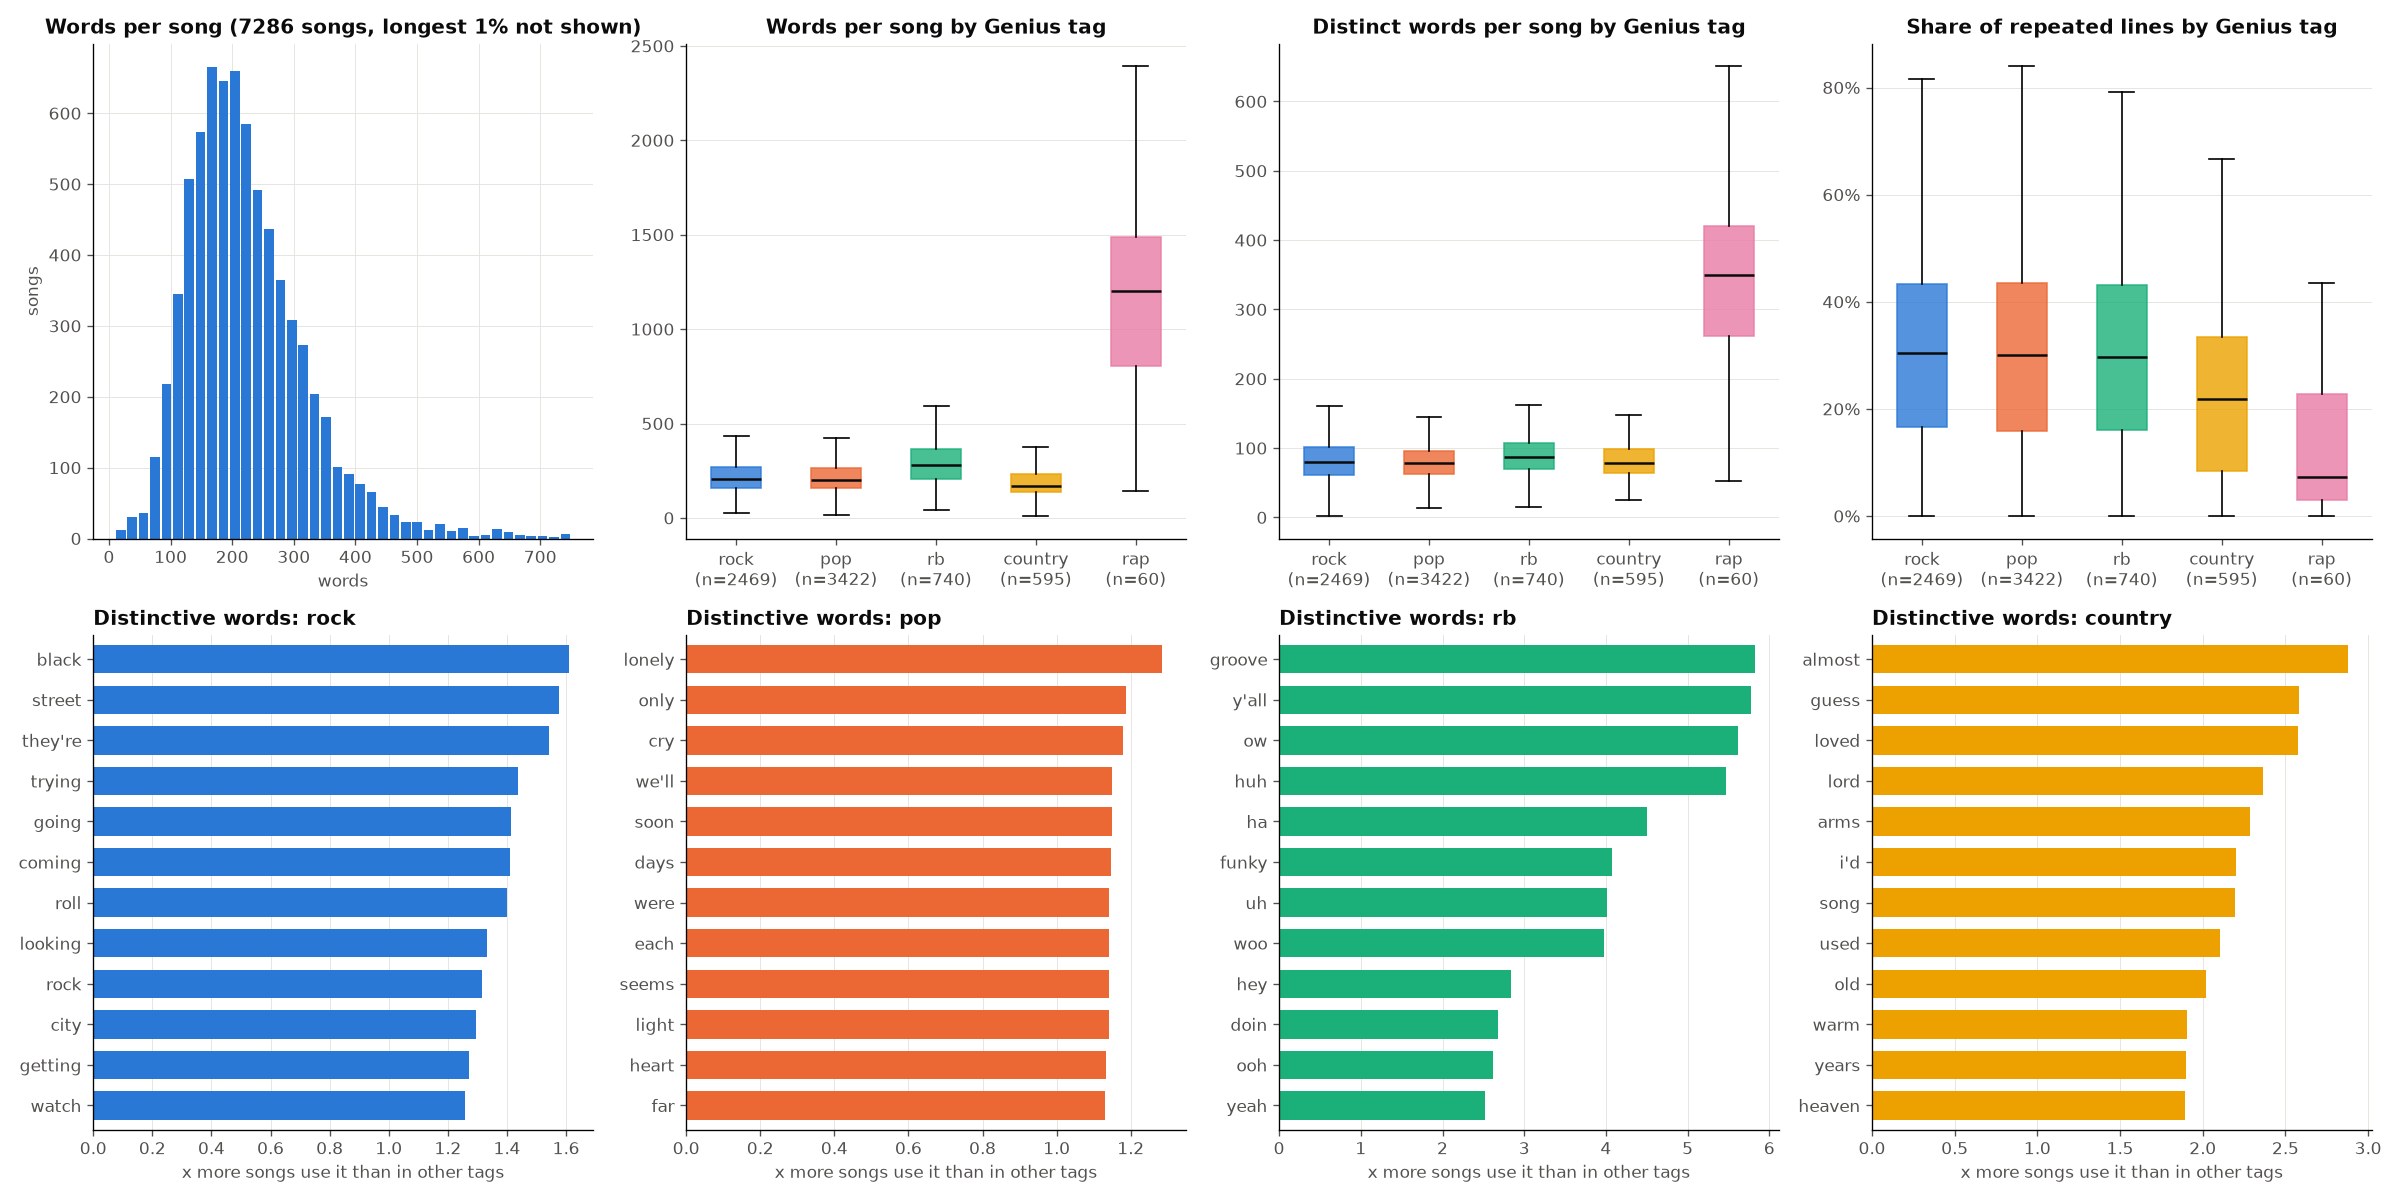
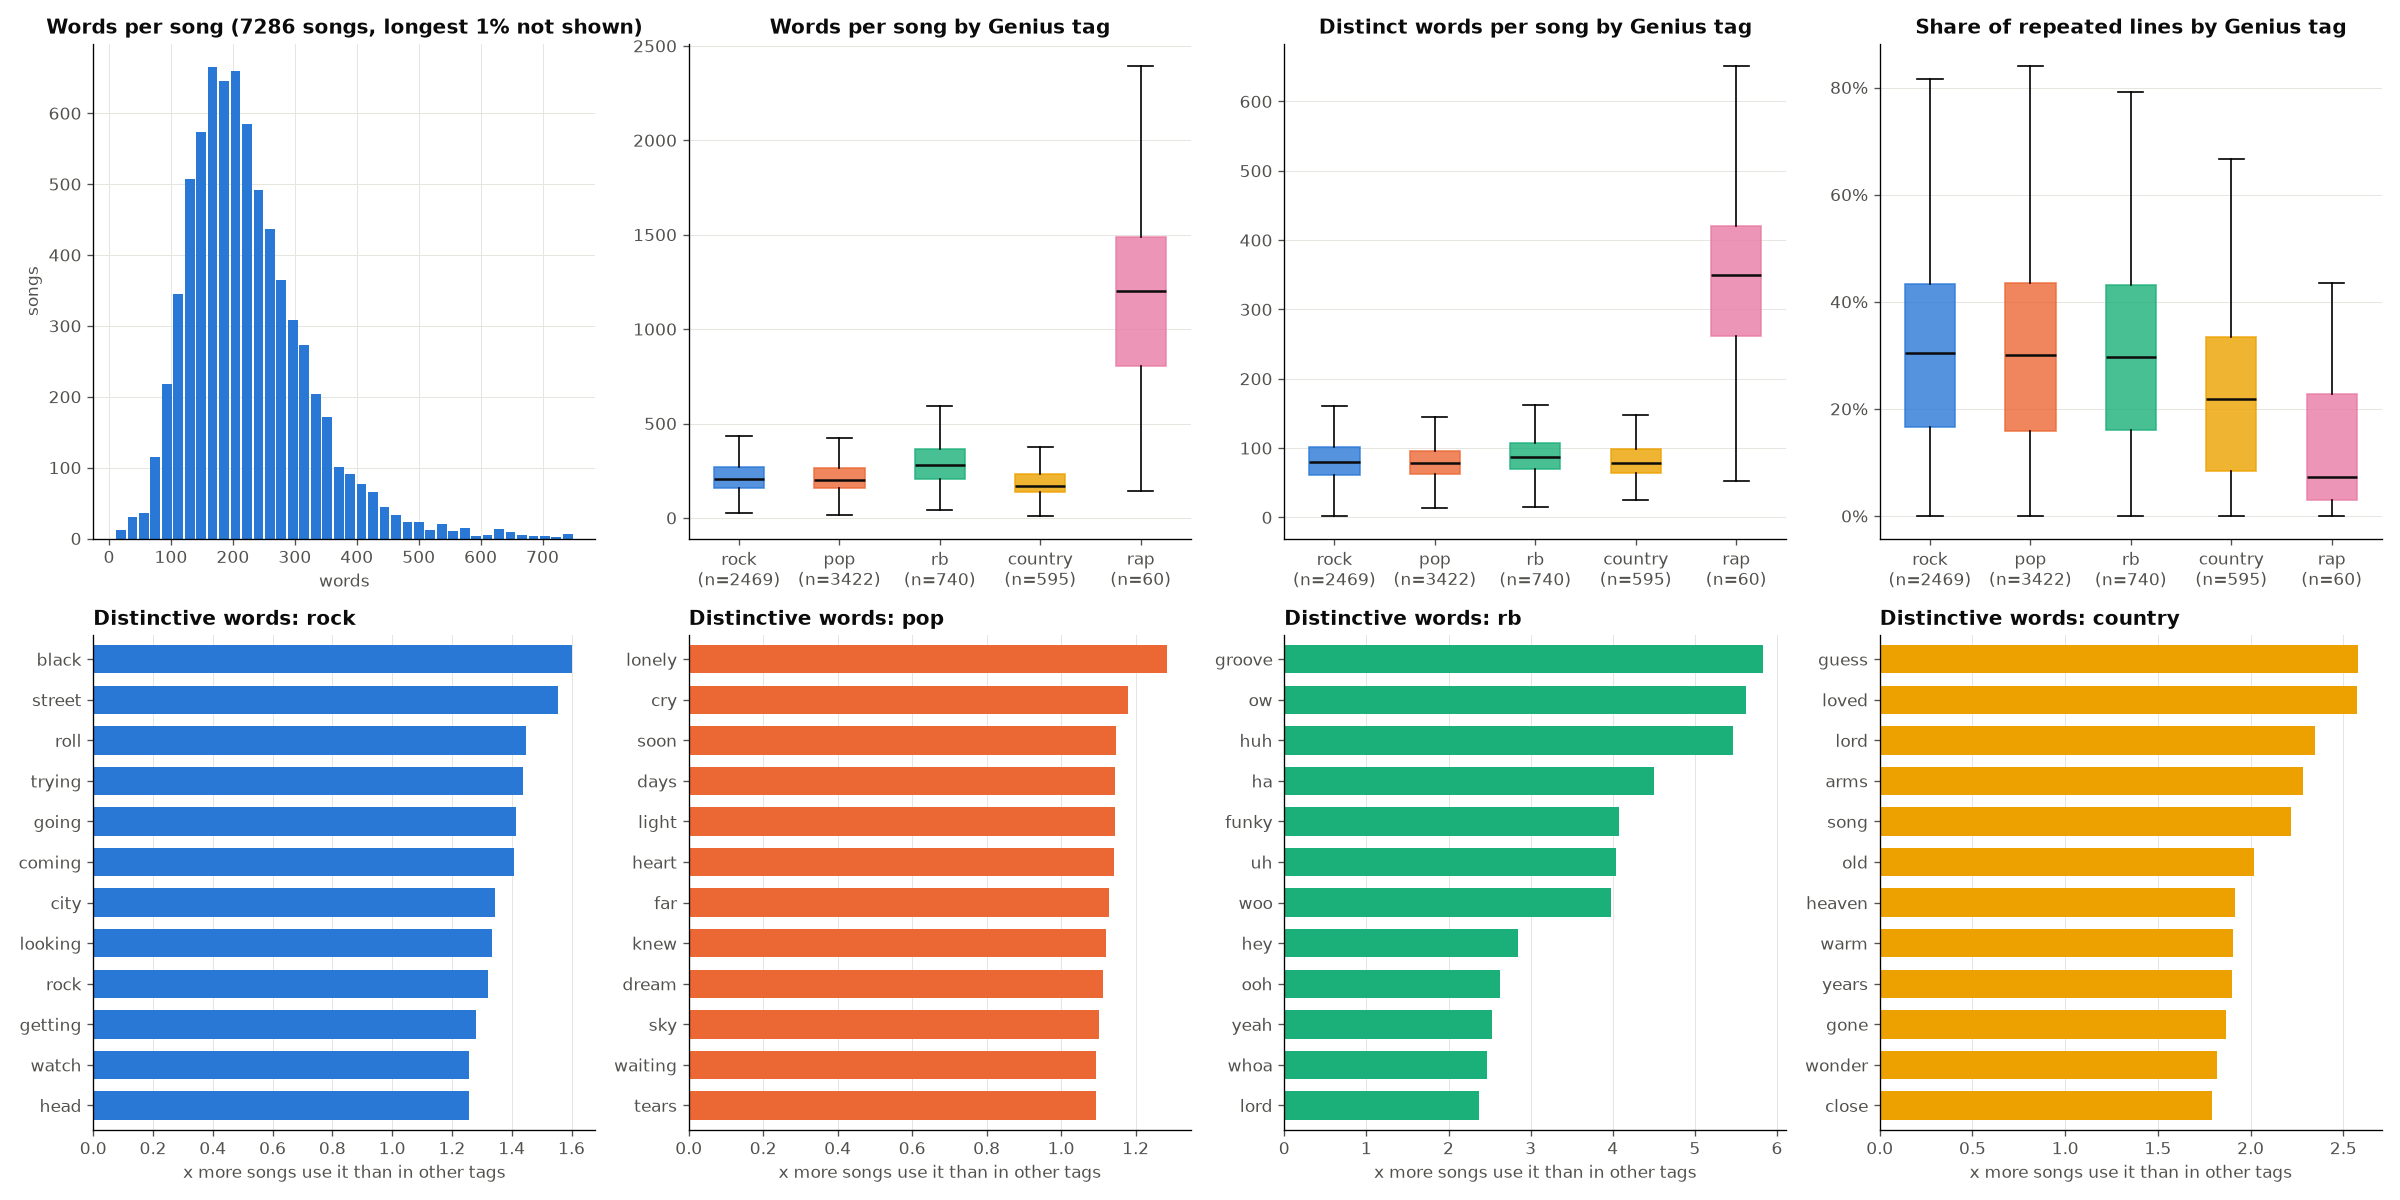
Finished merge (waiting for run)

diff --git a/src/data.py b/src/data.py
@@ -3,7 +3,19 @@
 import pandas as pd
 
 from . import clean, combine
-from .config import GENIUS_CLEAN, SONGS_LYRICS
+from .config import GENIUS_CLEAN, GENIUS_RAW, SONGS_LYRICS, YEAR_RANGE, musicbrainz_raw
+
+
+def _stale():
+    """Why the processed files must be rebuilt, or None if they are up to date: one is
+    missing, or a raw download is newer (e.g. new songs_<year>.csv files were added)."""
+    processed = [GENIUS_CLEAN, SONGS_LYRICS]
+    if not all(p.exists() for p in processed):
+        return "processed files missing"
+    built = min(p.stat().st_mtime for p in processed)
+    newer = [r.name for r in [GENIUS_RAW, *map(musicbrainz_raw, YEAR_RANGE)]
+             if r.exists() and r.stat().st_mtime > built]
+    return f"newer raw files: {', '.join(newer)}" if newer else None
 
 
 def load_data(rebuild=False):
@@ -13,10 +25,12 @@ def load_data(rebuild=False):
             (songs_<years>_lyrics.csv)
     genius  every cleaned Genius song in the year range (genius_<years>_clean.csv)
 
-    The cleaning and matching (a few minutes) only run when a processed file is
-    missing or rebuild=True.
+    The cleaning and matching (a few minutes) only run when rebuild=True, a processed
+    file is missing, or a raw file in data/raw/ is newer than the processed files.
     """
-    if rebuild or not GENIUS_CLEAN.exists() or not SONGS_LYRICS.exists():
+    reason = "rebuild=True" if rebuild else _stale()
+    if reason:
+        print(f"Rebuilding processed data ({reason})...")
         combine.run(*clean.run())
     # always read from disk, so dtypes are the same whether or not we rebuilt
     return pd.read_csv(SONGS_LYRICS), pd.read_csv(GENIUS_CLEAN)
